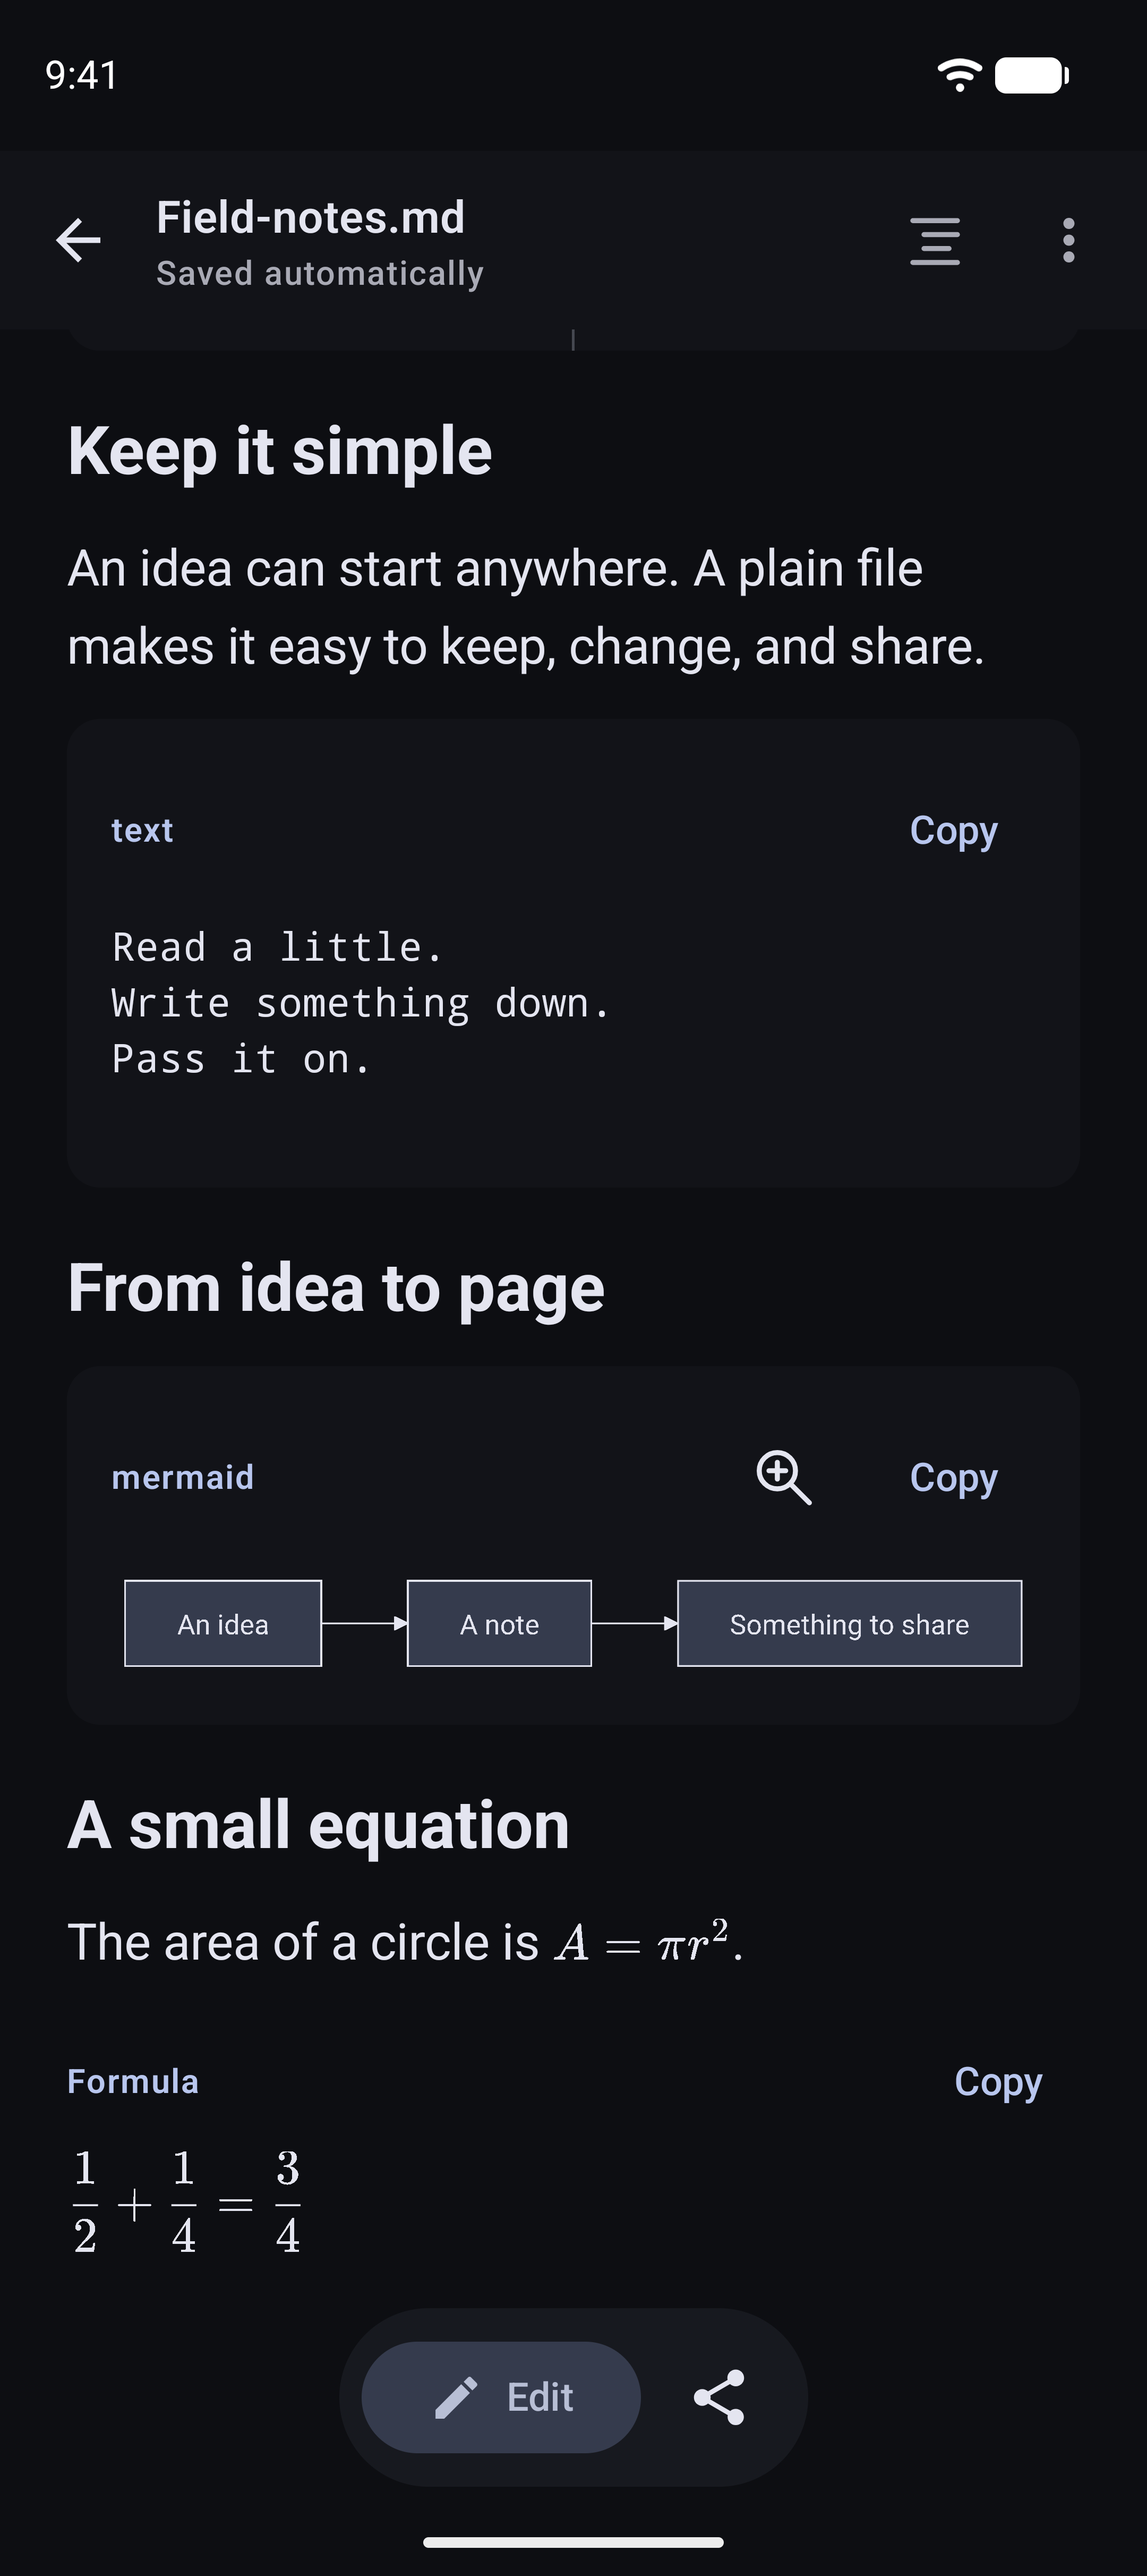
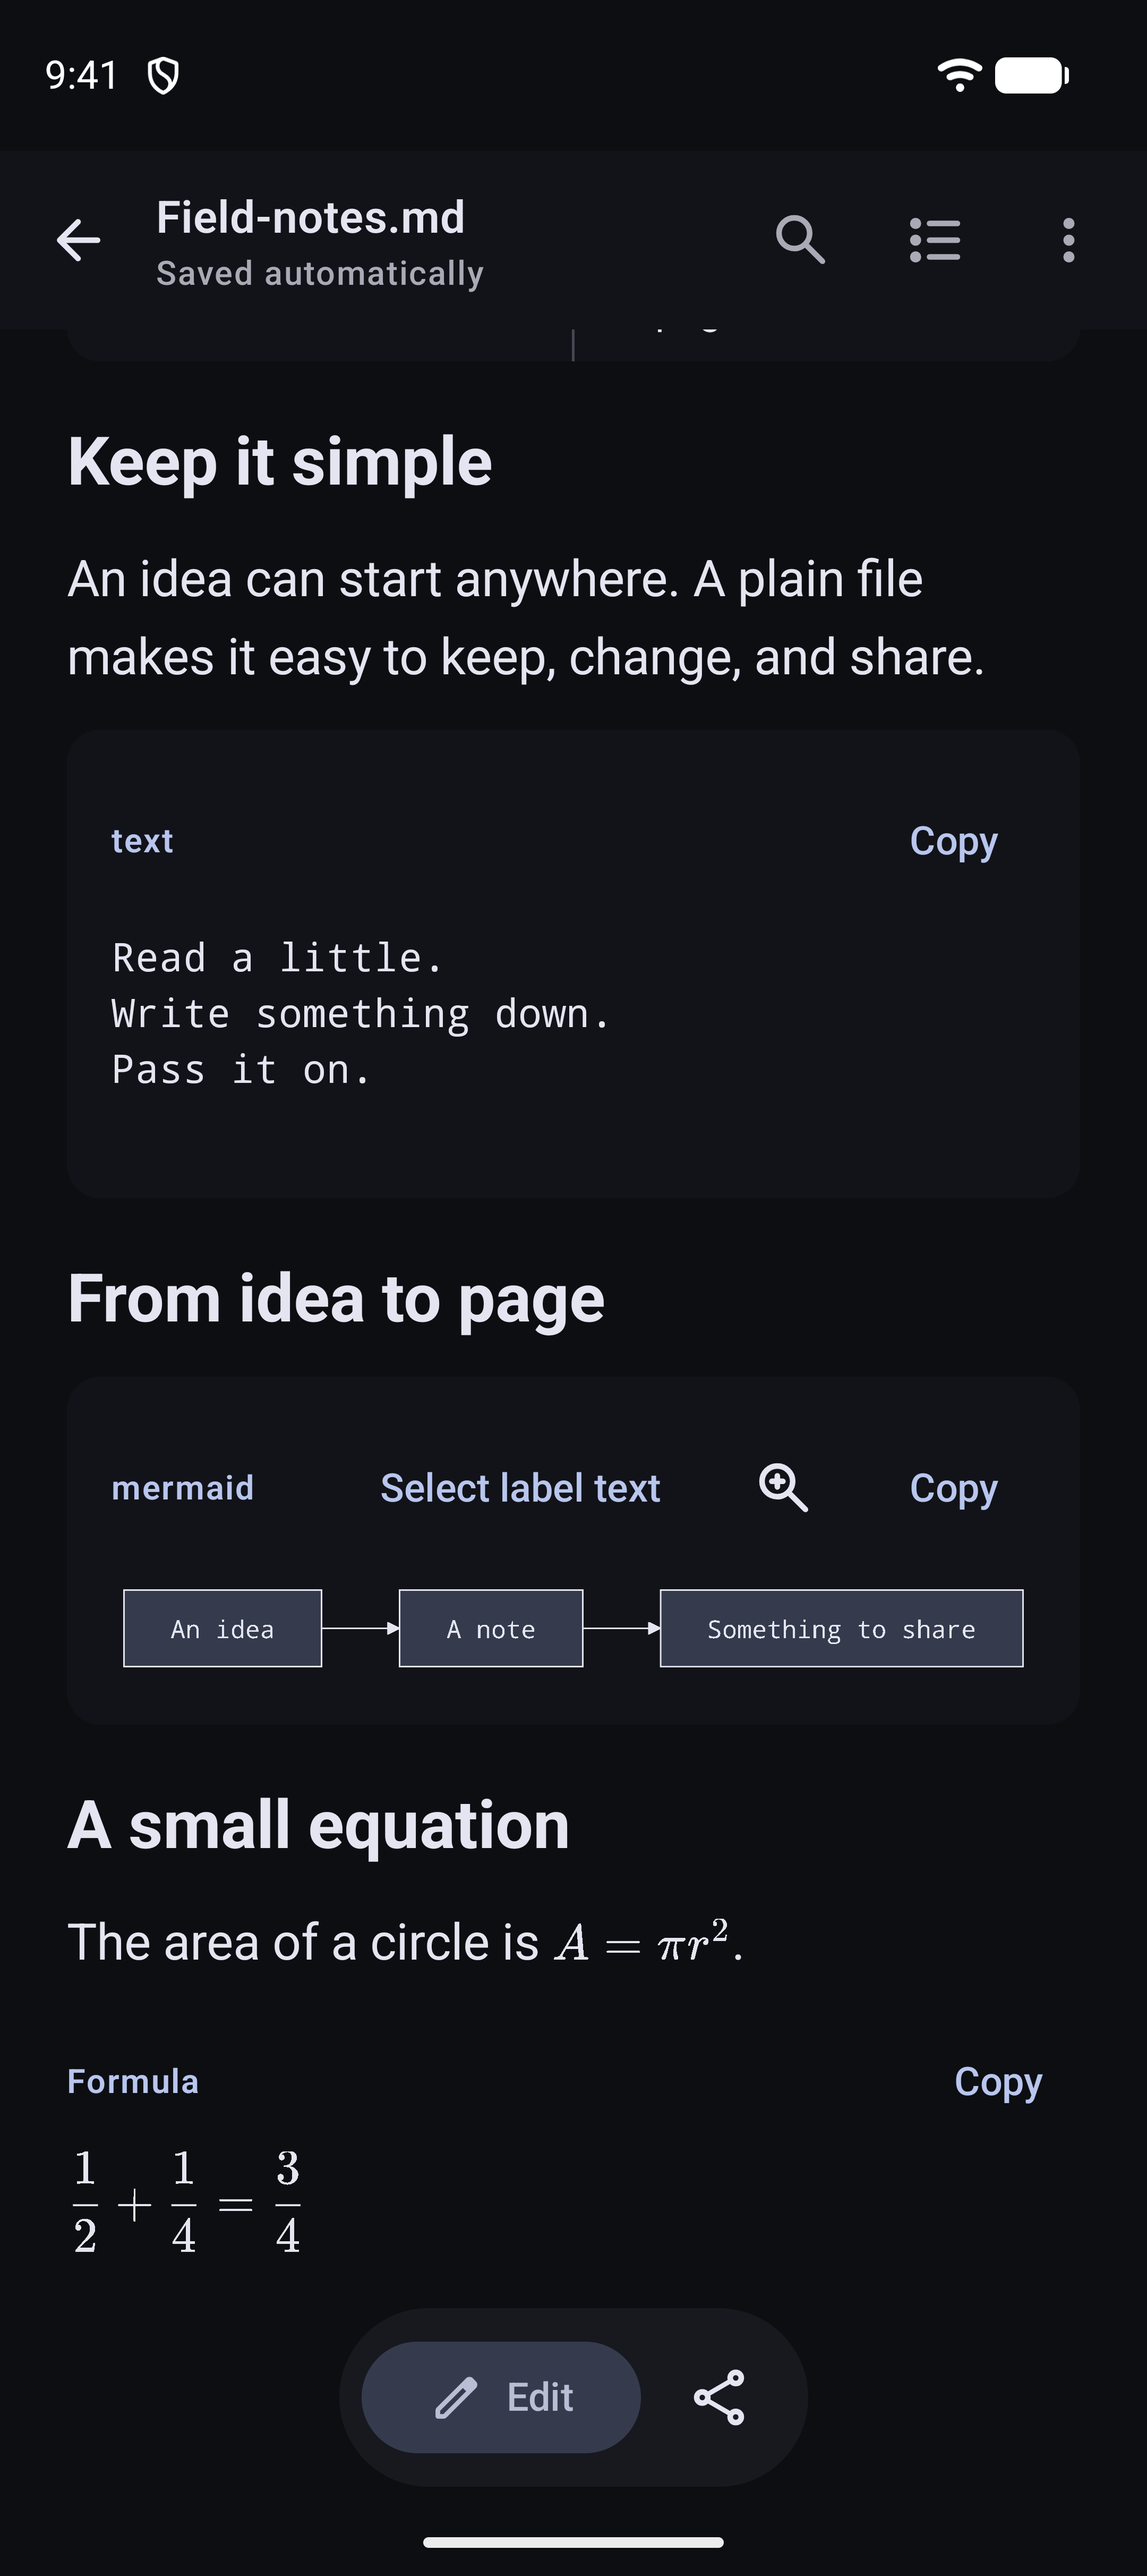
update the website for version 85
Describe Find and Replace, selection sharing, direct PDF export, and
larger undoable pastes. Update the release link and explain Save a copy.

Refresh light and dark screenshots from the signed version 85 APK at
both native resolutions. Keep generated pages in sync with the source.

diff --git a/docs/index.html b/docs/index.html
@@ -72,9 +72,9 @@
     </section>
 
     <aside class="release-strip page-width" aria-label="Latest release">
-      <span class="release-tag">Reimagined</span>
-      <p>Rebuilt from the ground up. Ready for your next document.</p>
-      <a href="https://github.com/soupslurpr/BeauTyXT/releases/tag/84">What’s new in 84 <span aria-hidden="true">↗</span></a>
+      <span class="release-tag">Version 85</span>
+      <p>Better search, clearer sharing, and room for larger pastes.</p>
+      <a href="https://github.com/soupslurpr/BeauTyXT/releases/tag/85">What’s new in 85 <span aria-hidden="true">↗</span></a>
     </aside>
 
     <section class="section page-width" id="features" aria-labelledby="features-title">
@@ -91,7 +91,7 @@
           <div class="feature-copy">
             <span class="feature-number" aria-hidden="true">01 / Read</span>
             <h3>Let the document<br>do the talking.</h3>
-            <p>Tables, checklists, code, footnotes, and supported math and diagrams. Markdown rendered natively, with no browser or JavaScript.</p>
+            <p>Tables, checklists, code, footnotes, and supported math and diagrams. Markdown rendered natively, with no browser or JavaScript. Select a passage to copy or share.</p>
             <a class="text-link" href="https://github.com/soupslurpr/BeauTyXT/blob/main/docs/native-illustrations.md">Math &amp; diagram support <span aria-hidden="true">↗</span></a>
           </div>
           <figure class="detail-shot">
@@ -106,7 +106,7 @@
           <div class="feature-copy">
             <span class="feature-number" aria-hidden="true">02 / Edit</span>
             <h3>Keep your place.<br>Find your flow.</h3>
-            <p>Move between reading and source editing without starting over. Find across the whole document, undo a change, or jump to a line—even in large files.</p>
+            <p>Find every match and review replacements before applying them. Undo a batch or a large paste in one step, and keep your place as you move between reading and editing.</p>
           </div>
           <figure class="detail-shot">
             <picture>
@@ -120,15 +120,15 @@
           <div class="feature-copy">
             <span class="feature-number" aria-hidden="true">03 / Share</span>
             <h3>Good text travels.</h3>
-            <p>Send a file or a little text. Show a QR code, write an NFC tag, or print a carefully laid-out PDF. No BeauTyXT account needed at either end.</p>
+            <p>Preview a document or selected passage, then share it or save a copy as source, Markdown, readable text, or PDF. QR codes, NFC tags, and Android printing are close at hand.</p>
             <ul class="feature-list">
-              <li>Android sharing</li><li>QR &amp; NFC</li><li>Formatted printing &amp; PDF</li>
+              <li>Preview &amp; export</li><li>QR &amp; NFC</li><li>Direct PDF sharing</li>
             </ul>
           </div>
           <div class="sharing-mark" aria-hidden="true"><span>.txt</span><span class="sharing-arrow">↗</span><span>.md</span></div>
         </article>
       </div>
-      <p class="screenshot-note">Real app screenshots. Colors follow your Android theme. <a href="/samples/field-notes.md" download>Try the sample document</a>.</p>
+      <p class="screenshot-note">Real screenshots from version 85. Colors follow your Android theme. <a href="/samples/field-notes.md" download>Try the sample document</a>.</p>
     </section>
 
     <section class="privacy-section page-width" id="privacy" aria-labelledby="privacy-title">
@@ -162,7 +162,11 @@
         </details>
         <details>
           <summary>How does saving work?</summary>
-          <div class="details-body"><p>Compatible source files save automatically after edits. If a storage provider cannot support verified saving, the file opens view-only; <strong>Save as editable</strong> creates a compatible source without changing the original.</p><p>New documents and received text remain in memory until you save. There are no private backup or recovery files. Unsaved content is lost if you close its session or Android ends the app process.</p><p>BeauTyXT checks the source before and after saving and reports conflicts or uncertain writes. Storage providers don’t universally support atomic writes: another app can race a save, and an interrupted write can leave a file incomplete.</p></div>
+          <div class="details-body"><p>Compatible source files save automatically after edits. If a storage provider cannot support verified saving, the file opens view-only; <strong>Save as editable</strong> creates a compatible source without changing the original.</p><p>For a new document, <strong>Save</strong> creates its own editable file. <strong>Save a copy</strong> in Send &amp; export saves the output you have previewed, such as a PDF or a selected passage.</p><p>New documents and received text remain in memory until you save. There are no private backup or recovery files. Unsaved content is lost if you close its session or Android ends the app process.</p><p>BeauTyXT checks the source before and after saving and reports conflicts or uncertain writes. Storage providers don’t universally support atomic writes: another app can race a save, and an interrupted write can leave a file incomplete.</p></div>
+        </details>
+        <details>
+          <summary>How do Find, Replace, and Undo work?</summary>
+          <div class="details-body"><p>Find highlights matches across the whole document. Choose case-sensitive, whole-word, or regular-expression searches, and browse results with surrounding text. Review replacements and exclude individual matches before applying a batch; <strong>Undo replacement</strong> reverses the applied change.</p><p>Large pastes stay a single undoable edit. Undo and Redo share the underlying text to use less memory, though very large edits still have memory limits. Sessions and undo history exist only while the app process keeps them open.</p></div>
         </details>
         <details>
           <summary>Can I read something shared from an AI assistant?</summary>
@@ -170,7 +174,7 @@
         </details>
         <details>
           <summary>What can I share or print?</summary>
-          <div class="details-body"><p>Share saved files through their existing provider, or share up to <strong>128 KiB</strong> of UTF-8 text directly. QR transfers accept up to <strong>1,536 UTF-8 bytes</strong>; NFC messages up to <strong>256 KiB</strong>, with writes also limited by the tag’s capacity. QR images can be saved as lossless WebP or PNG.</p><p>Print source text or formatted Markdown, including supported math and diagrams, or choose <strong>Save as PDF</strong> in Android’s print dialog. Adjust each margin, font and size, filename header, and page numbers. PDFs have selectable text and basic structure, but not full PDF/UA accessibility.</p></div>
+          <div class="details-body"><p><strong>Send &amp; export</strong> previews a whole document or selection as source, Markdown, readable text, or PDF. Each format explains what it preserves or changes. Share the reviewed output or use <strong>Save a copy</strong> to keep it.</p><p>PDFs can contain source text or formatted Markdown, including supported math and diagrams. Share the PDF directly, save it to a chosen provider, or open Android’s print screen. Adjust paper size, margins, font and size, filename header, and page numbers. PDFs preserve supported document links and provide selectable text and basic structure, but not full PDF/UA accessibility.</p><p>Share saved files through their existing provider, or share up to <strong>128 KiB</strong> of UTF-8 text directly. QR transfers accept up to <strong>1,536 UTF-8 bytes</strong>; NFC messages up to <strong>256 KiB</strong>, with writes also limited by the tag’s capacity. QR images can be saved as lossless WebP or PNG.</p></div>
         </details>
         <details>
           <summary>Which permissions does it use?</summary>

diff --git a/src/pages/home.html b/src/pages/home.html
@@ -25,9 +25,9 @@
     </section>
 
     <aside class="release-strip page-width" aria-label="Latest release">
-      <span class="release-tag">Reimagined</span>
-      <p>Rebuilt from the ground up. Ready for your next document.</p>
-      <a href="https://github.com/soupslurpr/BeauTyXT/releases/tag/84">What’s new in 84 <span aria-hidden="true">↗</span></a>
+      <span class="release-tag">Version 85</span>
+      <p>Better search, clearer sharing, and room for larger pastes.</p>
+      <a href="https://github.com/soupslurpr/BeauTyXT/releases/tag/85">What’s new in 85 <span aria-hidden="true">↗</span></a>
     </aside>
 
     <section class="section page-width" id="features" aria-labelledby="features-title">
@@ -44,7 +44,7 @@
           <div class="feature-copy">
             <span class="feature-number" aria-hidden="true">01 / Read</span>
             <h3>Let the document<br>do the talking.</h3>
-            <p>Tables, checklists, code, footnotes, and supported math and diagrams. Markdown rendered natively, with no browser or JavaScript.</p>
+            <p>Tables, checklists, code, footnotes, and supported math and diagrams. Markdown rendered natively, with no browser or JavaScript. Select a passage to copy or share.</p>
             <a class="text-link" href="https://github.com/soupslurpr/BeauTyXT/blob/main/docs/native-illustrations.md">Math &amp; diagram support <span aria-hidden="true">↗</span></a>
           </div>
           <figure class="detail-shot">
@@ -59,7 +59,7 @@
           <div class="feature-copy">
             <span class="feature-number" aria-hidden="true">02 / Edit</span>
             <h3>Keep your place.<br>Find your flow.</h3>
-            <p>Move between reading and source editing without starting over. Find across the whole document, undo a change, or jump to a line—even in large files.</p>
+            <p>Find every match and review replacements before applying them. Undo a batch or a large paste in one step, and keep your place as you move between reading and editing.</p>
           </div>
           <figure class="detail-shot">
             <picture>
@@ -73,15 +73,15 @@
           <div class="feature-copy">
             <span class="feature-number" aria-hidden="true">03 / Share</span>
             <h3>Good text travels.</h3>
-            <p>Send a file or a little text. Show a QR code, write an NFC tag, or print a carefully laid-out PDF. No BeauTyXT account needed at either end.</p>
+            <p>Preview a document or selected passage, then share it or save a copy as source, Markdown, readable text, or PDF. QR codes, NFC tags, and Android printing are close at hand.</p>
             <ul class="feature-list">
-              <li>Android sharing</li><li>QR &amp; NFC</li><li>Formatted printing &amp; PDF</li>
+              <li>Preview &amp; export</li><li>QR &amp; NFC</li><li>Direct PDF sharing</li>
             </ul>
           </div>
           <div class="sharing-mark" aria-hidden="true"><span>.txt</span><span class="sharing-arrow">↗</span><span>.md</span></div>
         </article>
       </div>
-      <p class="screenshot-note">Real app screenshots. Colors follow your Android theme. <a href="/samples/field-notes.md" download>Try the sample document</a>.</p>
+      <p class="screenshot-note">Real screenshots from version 85. Colors follow your Android theme. <a href="/samples/field-notes.md" download>Try the sample document</a>.</p>
     </section>
 
     <section class="privacy-section page-width" id="privacy" aria-labelledby="privacy-title">
@@ -115,7 +115,11 @@
         </details>
         <details>
           <summary>How does saving work?</summary>
-          <div class="details-body"><p>Compatible source files save automatically after edits. If a storage provider cannot support verified saving, the file opens view-only; <strong>Save as editable</strong> creates a compatible source without changing the original.</p><p>New documents and received text remain in memory until you save. There are no private backup or recovery files. Unsaved content is lost if you close its session or Android ends the app process.</p><p>BeauTyXT checks the source before and after saving and reports conflicts or uncertain writes. Storage providers don’t universally support atomic writes: another app can race a save, and an interrupted write can leave a file incomplete.</p></div>
+          <div class="details-body"><p>Compatible source files save automatically after edits. If a storage provider cannot support verified saving, the file opens view-only; <strong>Save as editable</strong> creates a compatible source without changing the original.</p><p>For a new document, <strong>Save</strong> creates its own editable file. <strong>Save a copy</strong> in Send &amp; export saves the output you have previewed, such as a PDF or a selected passage.</p><p>New documents and received text remain in memory until you save. There are no private backup or recovery files. Unsaved content is lost if you close its session or Android ends the app process.</p><p>BeauTyXT checks the source before and after saving and reports conflicts or uncertain writes. Storage providers don’t universally support atomic writes: another app can race a save, and an interrupted write can leave a file incomplete.</p></div>
+        </details>
+        <details>
+          <summary>How do Find, Replace, and Undo work?</summary>
+          <div class="details-body"><p>Find highlights matches across the whole document. Choose case-sensitive, whole-word, or regular-expression searches, and browse results with surrounding text. Review replacements and exclude individual matches before applying a batch; <strong>Undo replacement</strong> reverses the applied change.</p><p>Large pastes stay a single undoable edit. Undo and Redo share the underlying text to use less memory, though very large edits still have memory limits. Sessions and undo history exist only while the app process keeps them open.</p></div>
         </details>
         <details>
           <summary>Can I read something shared from an AI assistant?</summary>
@@ -123,7 +127,7 @@
         </details>
         <details>
           <summary>What can I share or print?</summary>
-          <div class="details-body"><p>Share saved files through their existing provider, or share up to <strong>128 KiB</strong> of UTF-8 text directly. QR transfers accept up to <strong>1,536 UTF-8 bytes</strong>; NFC messages up to <strong>256 KiB</strong>, with writes also limited by the tag’s capacity. QR images can be saved as lossless WebP or PNG.</p><p>Print source text or formatted Markdown, including supported math and diagrams, or choose <strong>Save as PDF</strong> in Android’s print dialog. Adjust each margin, font and size, filename header, and page numbers. PDFs have selectable text and basic structure, but not full PDF/UA accessibility.</p></div>
+          <div class="details-body"><p><strong>Send &amp; export</strong> previews a whole document or selection as source, Markdown, readable text, or PDF. Each format explains what it preserves or changes. Share the reviewed output or use <strong>Save a copy</strong> to keep it.</p><p>PDFs can contain source text or formatted Markdown, including supported math and diagrams. Share the PDF directly, save it to a chosen provider, or open Android’s print screen. Adjust paper size, margins, font and size, filename header, and page numbers. PDFs preserve supported document links and provide selectable text and basic structure, but not full PDF/UA accessibility.</p><p>Share saved files through their existing provider, or share up to <strong>128 KiB</strong> of UTF-8 text directly. QR transfers accept up to <strong>1,536 UTF-8 bytes</strong>; NFC messages up to <strong>256 KiB</strong>, with writes also limited by the tag’s capacity. QR images can be saved as lossless WebP or PNG.</p></div>
         </details>
         <details>
           <summary>Which permissions does it use?</summary>

diff --git a/README.md b/README.md
@@ -37,7 +37,7 @@ color schemes, keyboard navigation, expanded disclosures, and local links
 before publishing. The production app's README and architecture documents are
 the source of truth for feature and privacy claims.
 
-Screenshots show release 84 in an Android 17 emulator using the sample document
+Screenshots show release 85 in an Android 17 emulator using the sample document
 in `docs/samples/`. They are lossless WebP captures of the actual app with a
 normalized status bar, not rendered mockups. The 1080 × 2424 and 2160 × 4848
 versions are separate native captures; the larger versions double emulator
